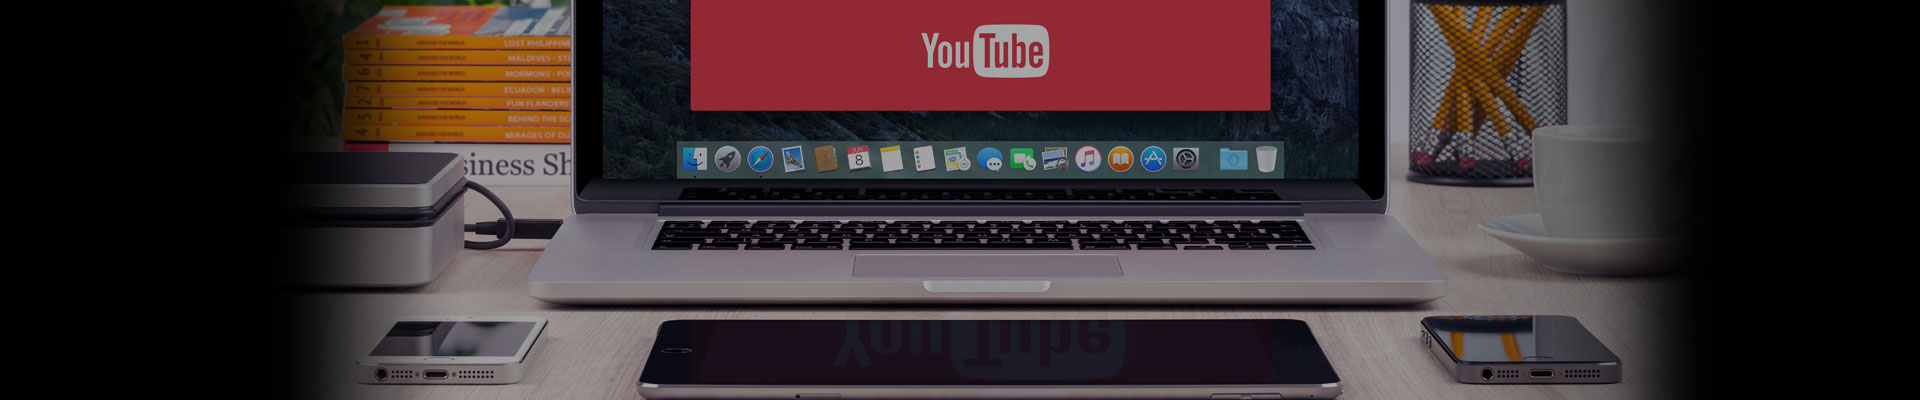
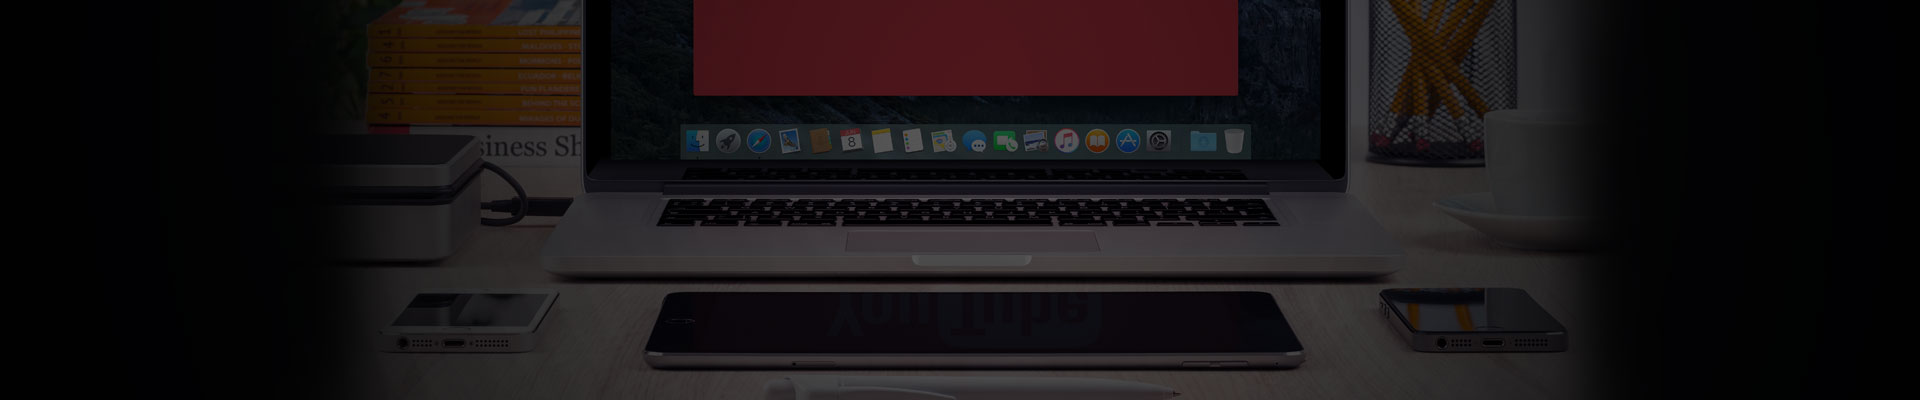
latest

diff --git a/src/app/youtube/youtube.component.spec.ts b/src/app/youtube/youtube.component.spec.ts
@@ -1,0 +1,25 @@
+import { async, ComponentFixture, TestBed } from '@angular/core/testing';
+
+import { YoutubeComponent } from './youtube.component';
+
+describe('YoutubeComponent', () => {
+  let component: YoutubeComponent;
+  let fixture: ComponentFixture<YoutubeComponent>;
+
+  beforeEach(async(() => {
+    TestBed.configureTestingModule({
+      declarations: [ YoutubeComponent ]
+    })
+    .compileComponents();
+  }));
+
+  beforeEach(() => {
+    fixture = TestBed.createComponent(YoutubeComponent);
+    component = fixture.componentInstance;
+    fixture.detectChanges();
+  });
+
+  it('should be created', () => {
+    expect(component).toBeTruthy();
+  });
+});

diff --git a/src/app/app.module.ts b/src/app/app.module.ts
@@ -18,6 +18,7 @@ import { AngularFireAuthModule } from 'angularfire2/auth';
 import { environment } from '../environments/environment';
 import {Component, Input, Pipe, PipeTransform} from '@angular/core';
 import { BrowserAnimationsModule } from '@angular/platform-browser/animations';
+import { YoutubeComponent } from './youtube/youtube.component';
 
 @NgModule({
   declarations: [
@@ -30,7 +31,8 @@ import { BrowserAnimationsModule } from '@angular/platform-browser/animations';
     ContactComponent,
     ServicesComponent,
     FooterComponent,
-    WorksComponent
+    WorksComponent,
+    YoutubeComponent
     
   ],
   imports: [

diff --git a/src/app/app.routes.ts b/src/app/app.routes.ts
@@ -5,6 +5,7 @@ import { AboutComponent } from './about/about.component';
 import { ContactComponent } from './contact/contact.component';
 import { ServicesComponent } from './services/services.component';
 import { WorksComponent } from './works/works.component';
+import { YoutubeComponent } from'./youtube/youtube.component';
 export const appRoutes: Routes = [
   {
     path: '',
@@ -30,6 +31,10 @@ export const appRoutes: Routes = [
   {
     path: 'works',
     component: WorksComponent
+  },
+  {
+    path: 'youtube',
+    component: YoutubeComponent
   },
   {
     path: '**',

diff --git a/src/app/youtube/youtube.component.ts b/src/app/youtube/youtube.component.ts
@@ -1,0 +1,15 @@
+import { Component, OnInit } from '@angular/core';
+
+@Component({
+  selector: 'app-youtube',
+  templateUrl: './youtube.component.html',
+  styleUrls: ['./youtube.component.css']
+})
+export class YoutubeComponent implements OnInit {
+
+  constructor() { }
+
+  ngOnInit() {
+  }
+
+}

diff --git a/src/app/youtube/youtube.component.html b/src/app/youtube/youtube.component.html
@@ -1,0 +1,7 @@
+<section class="about-section contact">
+  <img src="../../assets/images/youtube-bg.jpg">
+  <div class="about-content">
+      <i class="fa fa-youtube" aria-hidden="true"></i>
+      <h2>Youtube</h2>
+  </div>
+</section>
